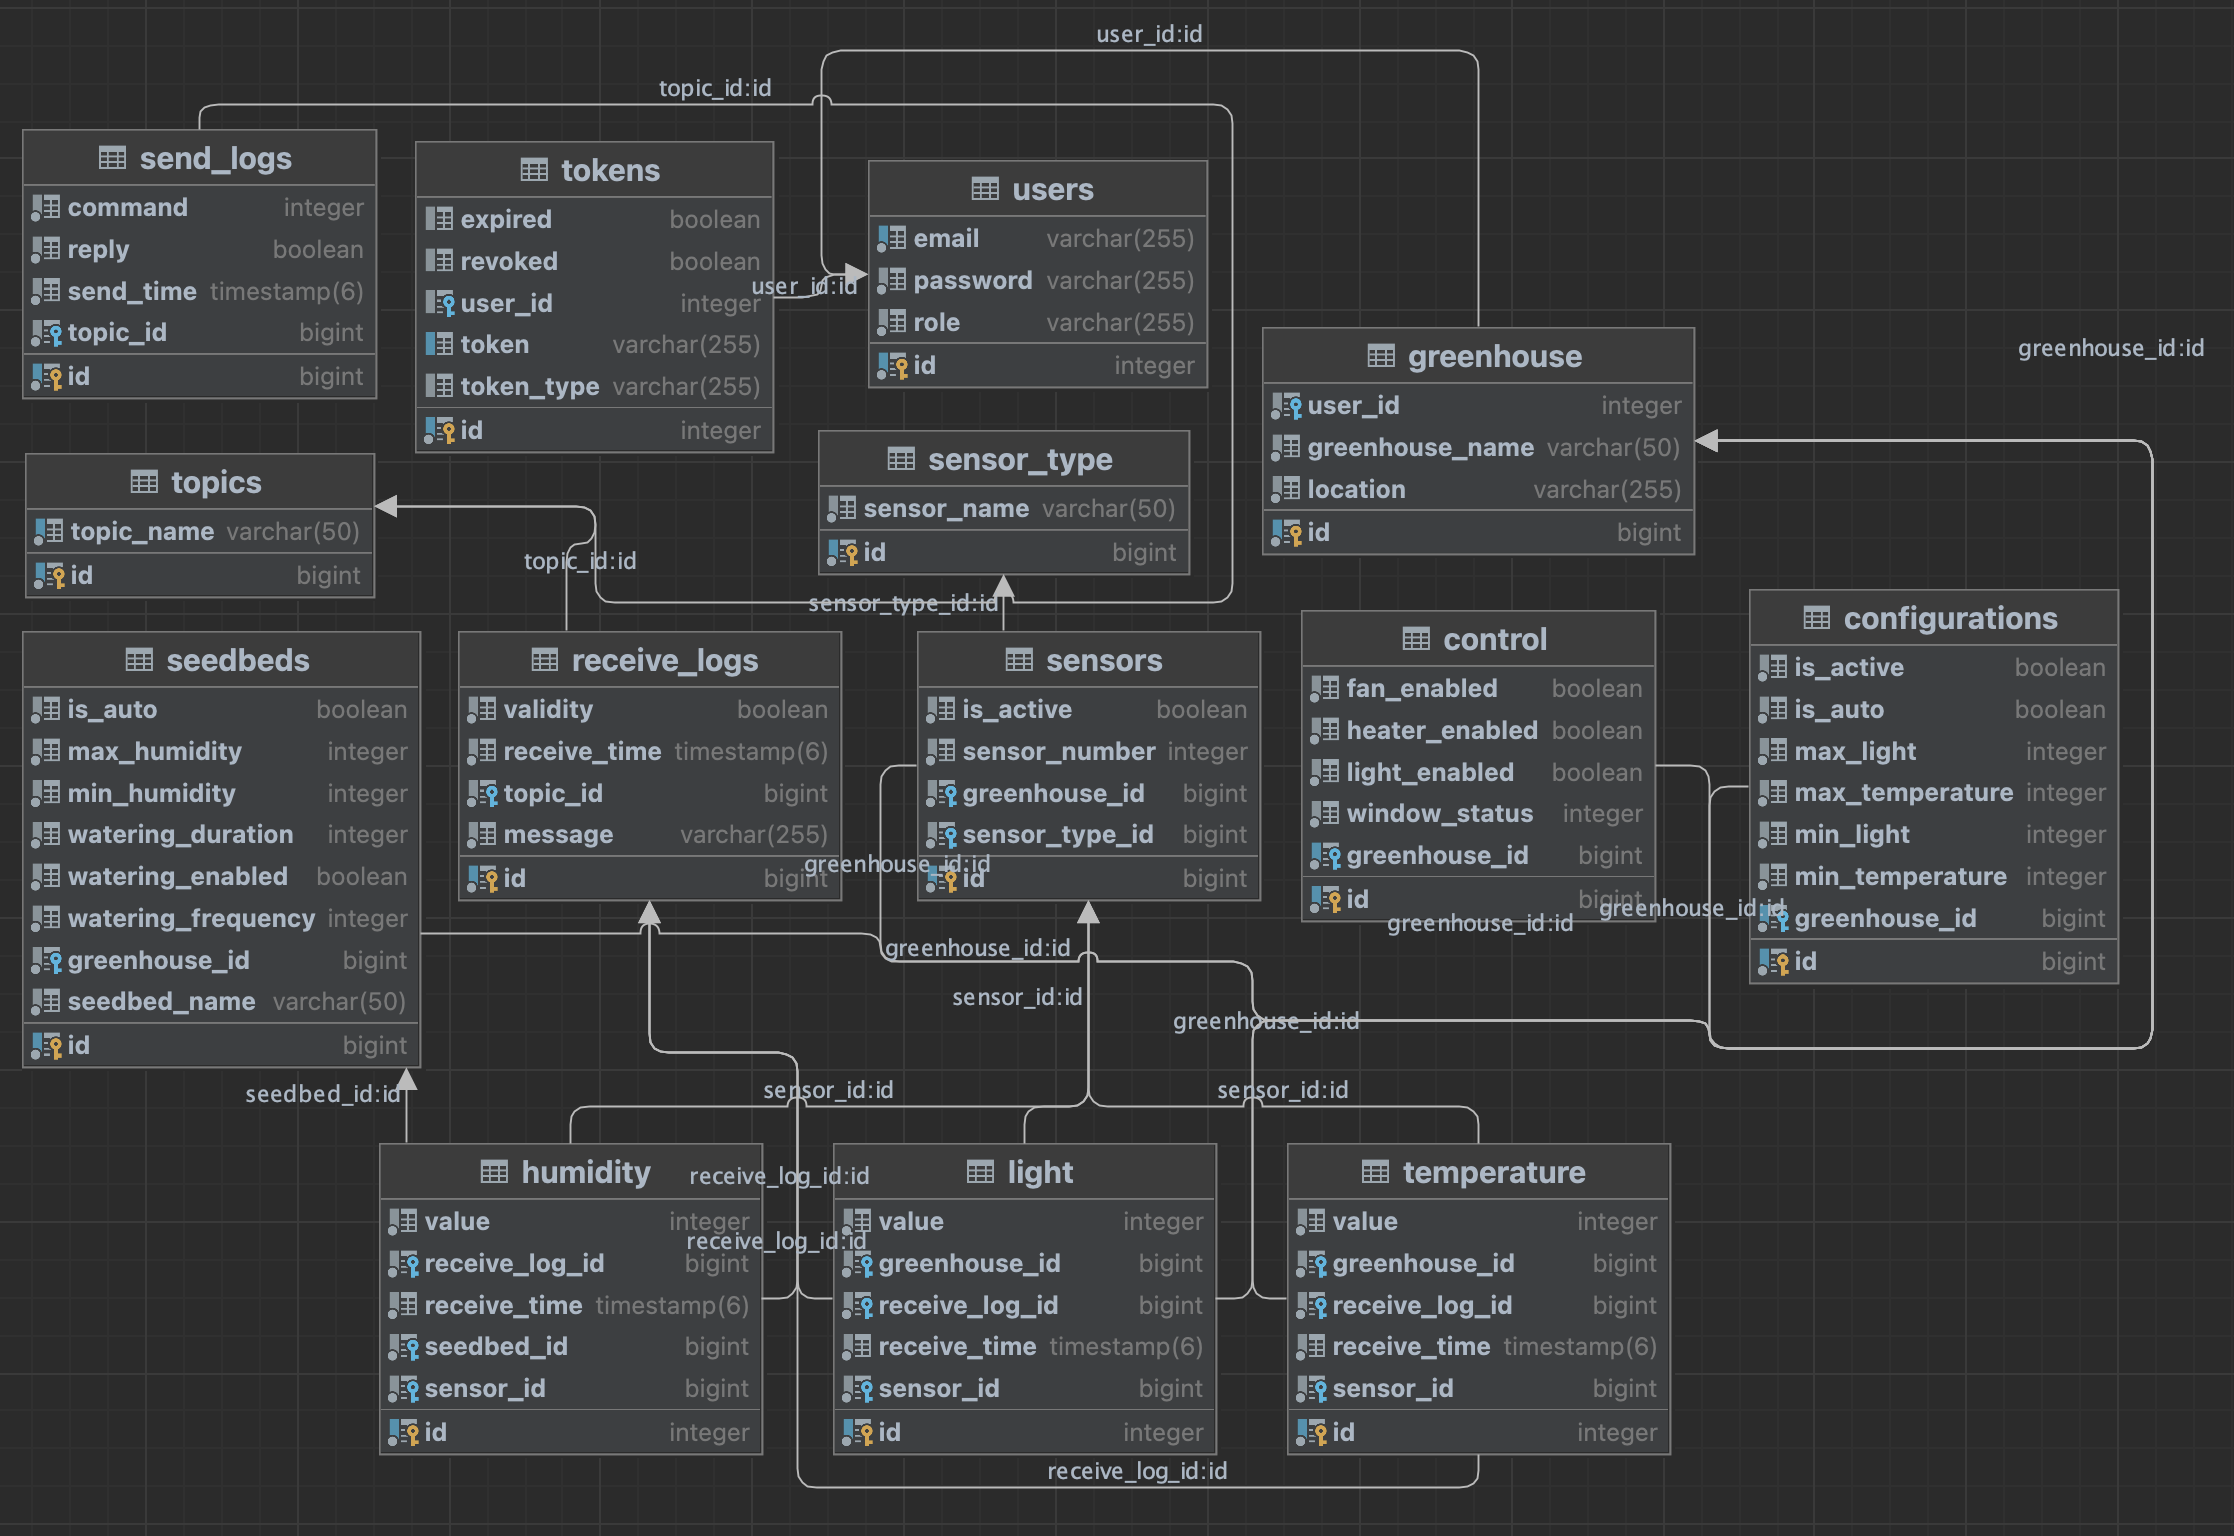
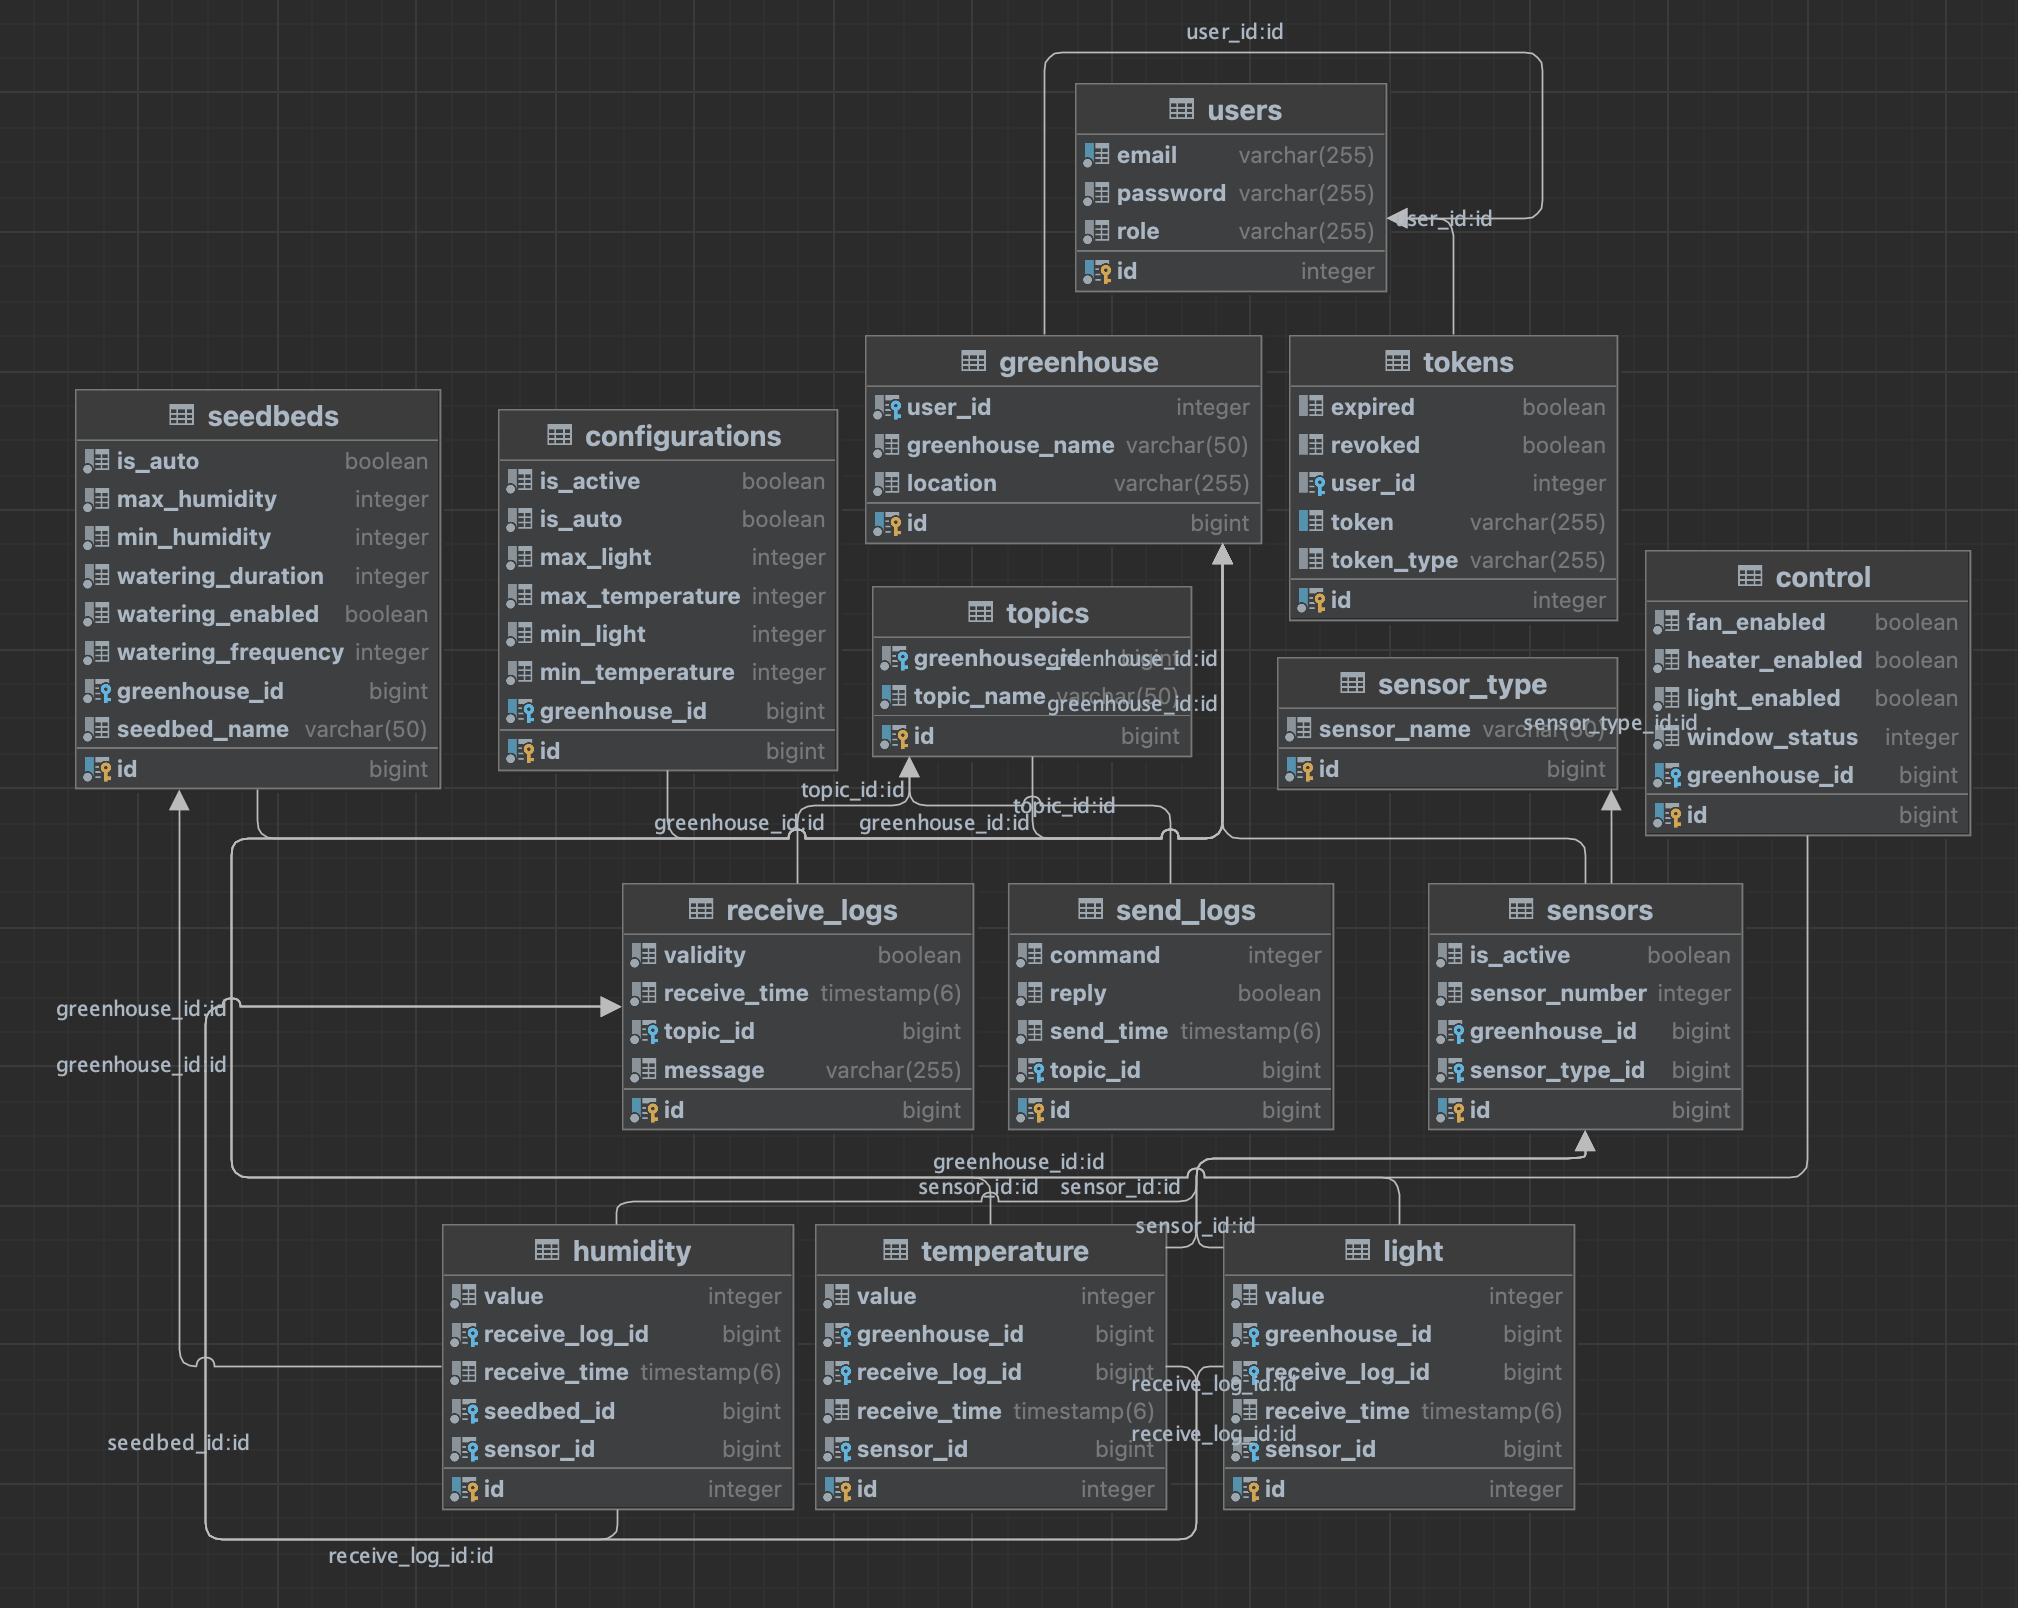
fix db (add greenhouse_id to topics)

diff --git a/src/main/java/org/greenhouse/entity/log/Topics.java b/src/main/java/org/greenhouse/entity/log/Topics.java
@@ -6,6 +6,8 @@ import jakarta.persistence.Entity;
 import jakarta.persistence.GeneratedValue;
 import jakarta.persistence.GenerationType;
 import jakarta.persistence.Id;
+import jakarta.persistence.JoinColumn;
+import jakarta.persistence.ManyToOne;
 import jakarta.persistence.OneToMany;
 import jakarta.persistence.Table;
 import java.util.ArrayList;
@@ -14,6 +16,7 @@ import lombok.AllArgsConstructor;
 import lombok.Getter;
 import lombok.NoArgsConstructor;
 import lombok.Setter;
+import org.greenhouse.entity.greenhouse.Greenhouses;
 
 @Entity
 @Getter
@@ -28,6 +31,10 @@ public class Topics {
 
   @Column(name = "topic_name", nullable = false, unique = true, length = 50)
   private String topicName; // название темы логов
+
+  @ManyToOne
+  @JoinColumn(name = "greenhouse_id", nullable = false)
+  private Greenhouses greenhouse;
 
   @OneToMany(mappedBy = "topic", cascade = CascadeType.ALL)
   private List<SendLogs> sendLogs = new ArrayList<>();

diff --git a/src/main/java/org/greenhouse/dto/output/log/TopicDto.java b/src/main/java/org/greenhouse/dto/output/log/TopicDto.java
@@ -1,19 +1,17 @@
 package org.greenhouse.dto.output.log;
 
 import com.fasterxml.jackson.annotation.JsonProperty;
-import java.util.List;
+import org.greenhouse.dto.output.greenhouse.GreenhouseDto;
 import org.greenhouse.entity.log.Topics;
 
 public record TopicDto(
     @JsonProperty("id") Long id,
     @JsonProperty("topicName") String topicName,
-    @JsonProperty("sendLogs") List<SendLogDto> sendLogs,
-    @JsonProperty("receiveLogs") List<ReceiveLogDto> receiveLogs) {
+    @JsonProperty("greenhouse") GreenhouseDto greenhouseDto) {
   public static TopicDto fromTopics(Topics topics) {
     return new TopicDto(
         topics.getId(),
         topics.getTopicName(),
-        topics.getSendLogs().stream().map(SendLogDto::fromSendLogs).toList(),
-        topics.getReceiveLogs().stream().map(ReceiveLogDto::fromReceiveLogs).toList());
+        GreenhouseDto.fromGreenhouse(topics.getGreenhouse()));
   }
 }

diff --git a/src/main/java/org/greenhouse/entity/greenhouse/Greenhouses.java b/src/main/java/org/greenhouse/entity/greenhouse/Greenhouses.java
@@ -17,6 +17,8 @@ import lombok.AllArgsConstructor;
 import lombok.Getter;
 import lombok.NoArgsConstructor;
 import lombok.Setter;
+import org.greenhouse.entity.log.SendLogs;
+import org.greenhouse.entity.log.Topics;
 import org.greenhouse.entity.log.readings.Light;
 import org.greenhouse.entity.log.readings.Temperature;
 import org.greenhouse.entity.sensor.Sensors;
@@ -60,4 +62,7 @@ public class Greenhouses {
 
   @OneToMany(mappedBy = "greenhouse", cascade = CascadeType.ALL)
   private List<Sensors> sensors = new ArrayList<>();
+
+  @OneToMany(mappedBy = "greenhouse", cascade = CascadeType.ALL)
+  private List<Topics> topics = new ArrayList<>();
 }

diff --git a/src/main/java/org/greenhouse/dto/input/log/TopicInputDto.java b/src/main/java/org/greenhouse/dto/input/log/TopicInputDto.java
@@ -3,8 +3,9 @@ package org.greenhouse.dto.input.log;
 import com.fasterxml.jackson.annotation.JsonProperty;
 import org.greenhouse.entity.log.Topics;
 
-public record TopicInputDto(@JsonProperty("topicName") String topicName) {
+public record TopicInputDto(
+    @JsonProperty("topicName") String topicName, @JsonProperty("greenhouseId") Long greenhouseId) {
   public static TopicInputDto fromTopics(Topics topics) {
-    return new TopicInputDto(topics.getTopicName());
+    return new TopicInputDto(topics.getTopicName(), topics.getId());
   }
 }

diff --git a/src/main/java/org/greenhouse/entity/log/SendLogs.java b/src/main/java/org/greenhouse/entity/log/SendLogs.java
@@ -26,7 +26,7 @@ public class SendLogs {
   private Long id;
 
   @Column(name = "reply", nullable = false)
-  private Boolean reply; // TODO узнать что имеется ввиду
+  private Boolean reply; // получен/не получен ответ
 
   @Column(name = "command", nullable = false)
   private Integer command; // выполненная команда

diff --git a/src/main/java/org/greenhouse/service/control/LogService.java b/src/main/java/org/greenhouse/service/control/LogService.java
@@ -43,4 +43,7 @@ public class LogService {
     return ReceiveLogDto.fromReceiveLogs(receiveLogs);
   }
 
+  // TODO сделать выгрузку последних 10 записей send logs по greenhouse id
+
+
 }
